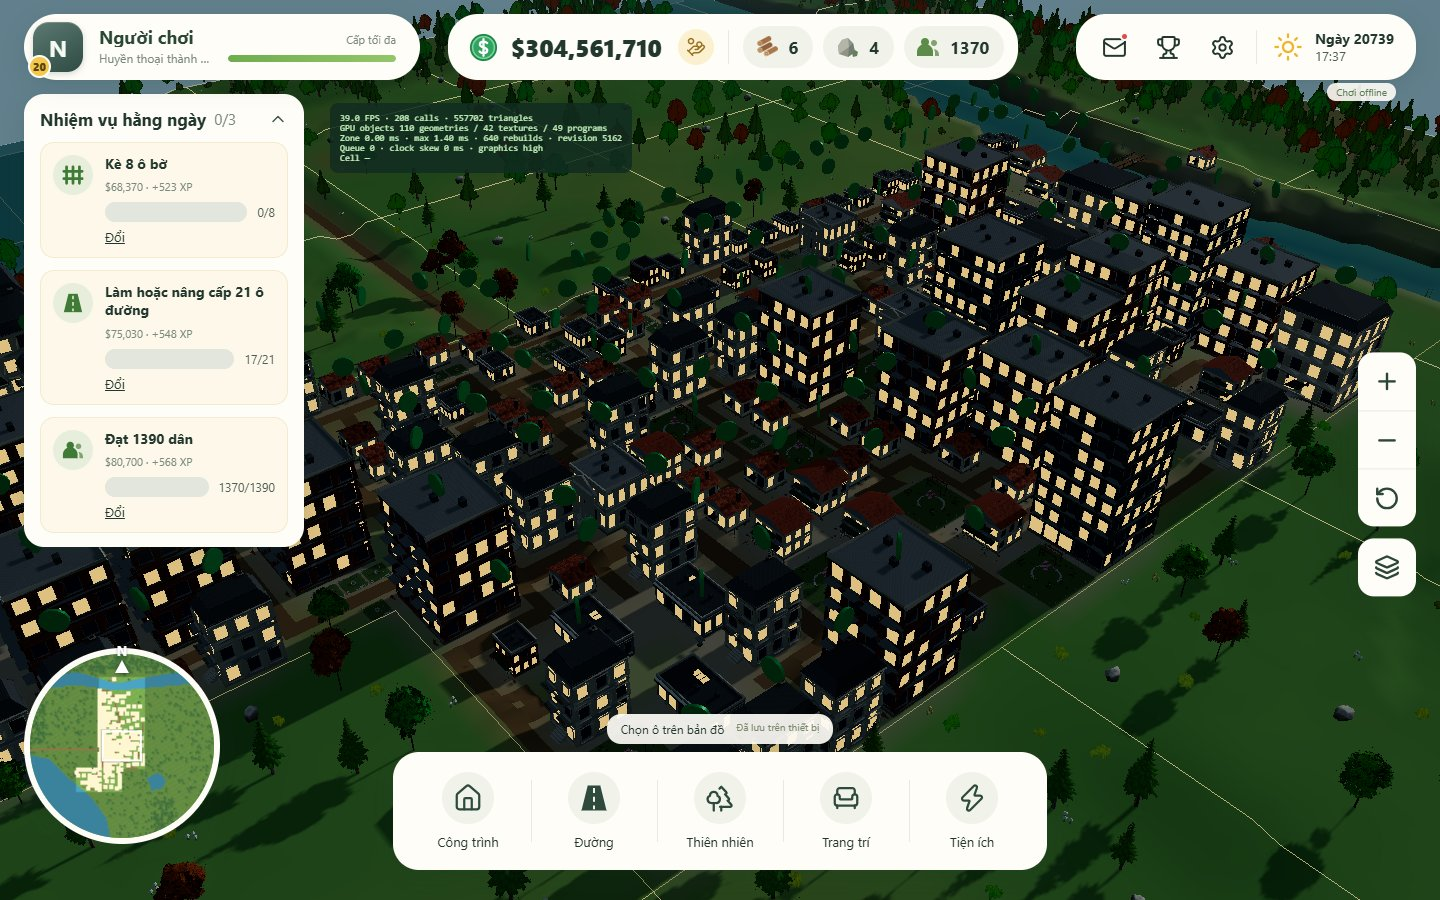
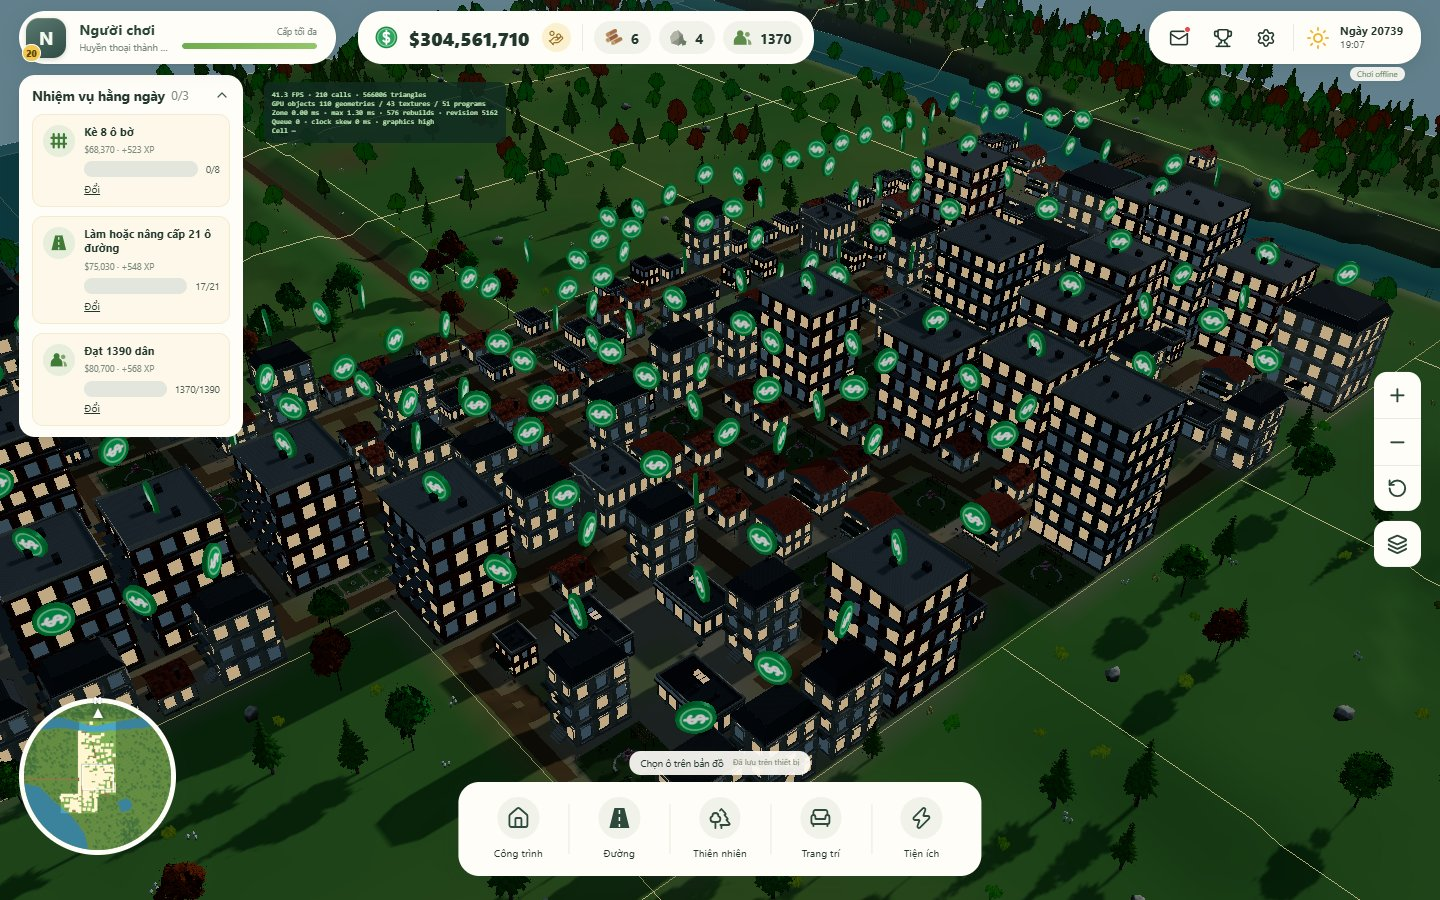
fix(d031): halve the night window light
Pane emissive 2.0 -> 1.0 (owner request). At 2.0 close city views drowned in bloom (orange haze, buildings lost their shape); now each lit pane reads as a warm square on a dark facade. Night QA re-run: all gates pass.

diff --git a/apps/web/src/game/render/windowLights.ts b/apps/web/src/game/render/windowLights.ts
@@ -11,6 +11,8 @@ const windowRateUniform = { value: 0.6 };
  */
 const glassDayUniform = { value: new Color('#bcd9ea') };
 const GLASS_REFLECTION = 0.22;
+/** Night pane light (warm emissive). Halved from 2.0 (owner request): at 2.0 close city views drowned in bloom. */
+const WINDOW_LIGHT = 1.0;
 
 function litRate(hour: number, night: number): number {
   if (night <= 0.01) return 0;
@@ -45,7 +47,7 @@ export function applyWindowLights(material: Material): void {
         float roundedHour = floor(uWindowHour * 2.0 + 0.5) * 0.5;
         float paneHash = fract(sin(dot(vec3(vWindow, vInstanceSeed.x, vInstanceSeed.y + roundedHour), vec3(17.13, 41.71, 29.53))) * 43758.5453);
         float lit = step(paneHash, uWindowRate);
-        totalEmissiveRadiance += vec3(1.0, 0.56, 0.16) * lit * uNight * 2.0;
+        totalEmissiveRadiance += vec3(1.0, 0.56, 0.16) * lit * uNight * ${WINDOW_LIGHT.toFixed(2)};
       }`,
     );
   });

diff --git a/apps/web/src/game/render/night.test.ts b/apps/web/src/game/render/night.test.ts
@@ -38,6 +38,7 @@ describe('building glass', () => {
     const source = shader.fragmentShader;
     expect(source.indexOf('diffuseColor.rgb = mix(diffuseColor.rgb, uGlassDay, 1.0 - uNight)')).toBeGreaterThan(source.indexOf('#include <color_fragment>'));
     expect(source).toContain('totalEmissiveRadiance += uGlassDay * 0.22 * (1.0 - uNight);');
+    expect(source).toContain('vec3(1.0, 0.56, 0.16) * lit * uNight * 1.00;'); // night panes at half the original 2.0
     const glass = (shader.uniforms.uGlassDay!.value as { r: number; g: number; b: number });
     expect(Math.min(glass.r, glass.g, glass.b)).toBeGreaterThan(0.3); // linear: a light pane, not the dark import glass
   });
